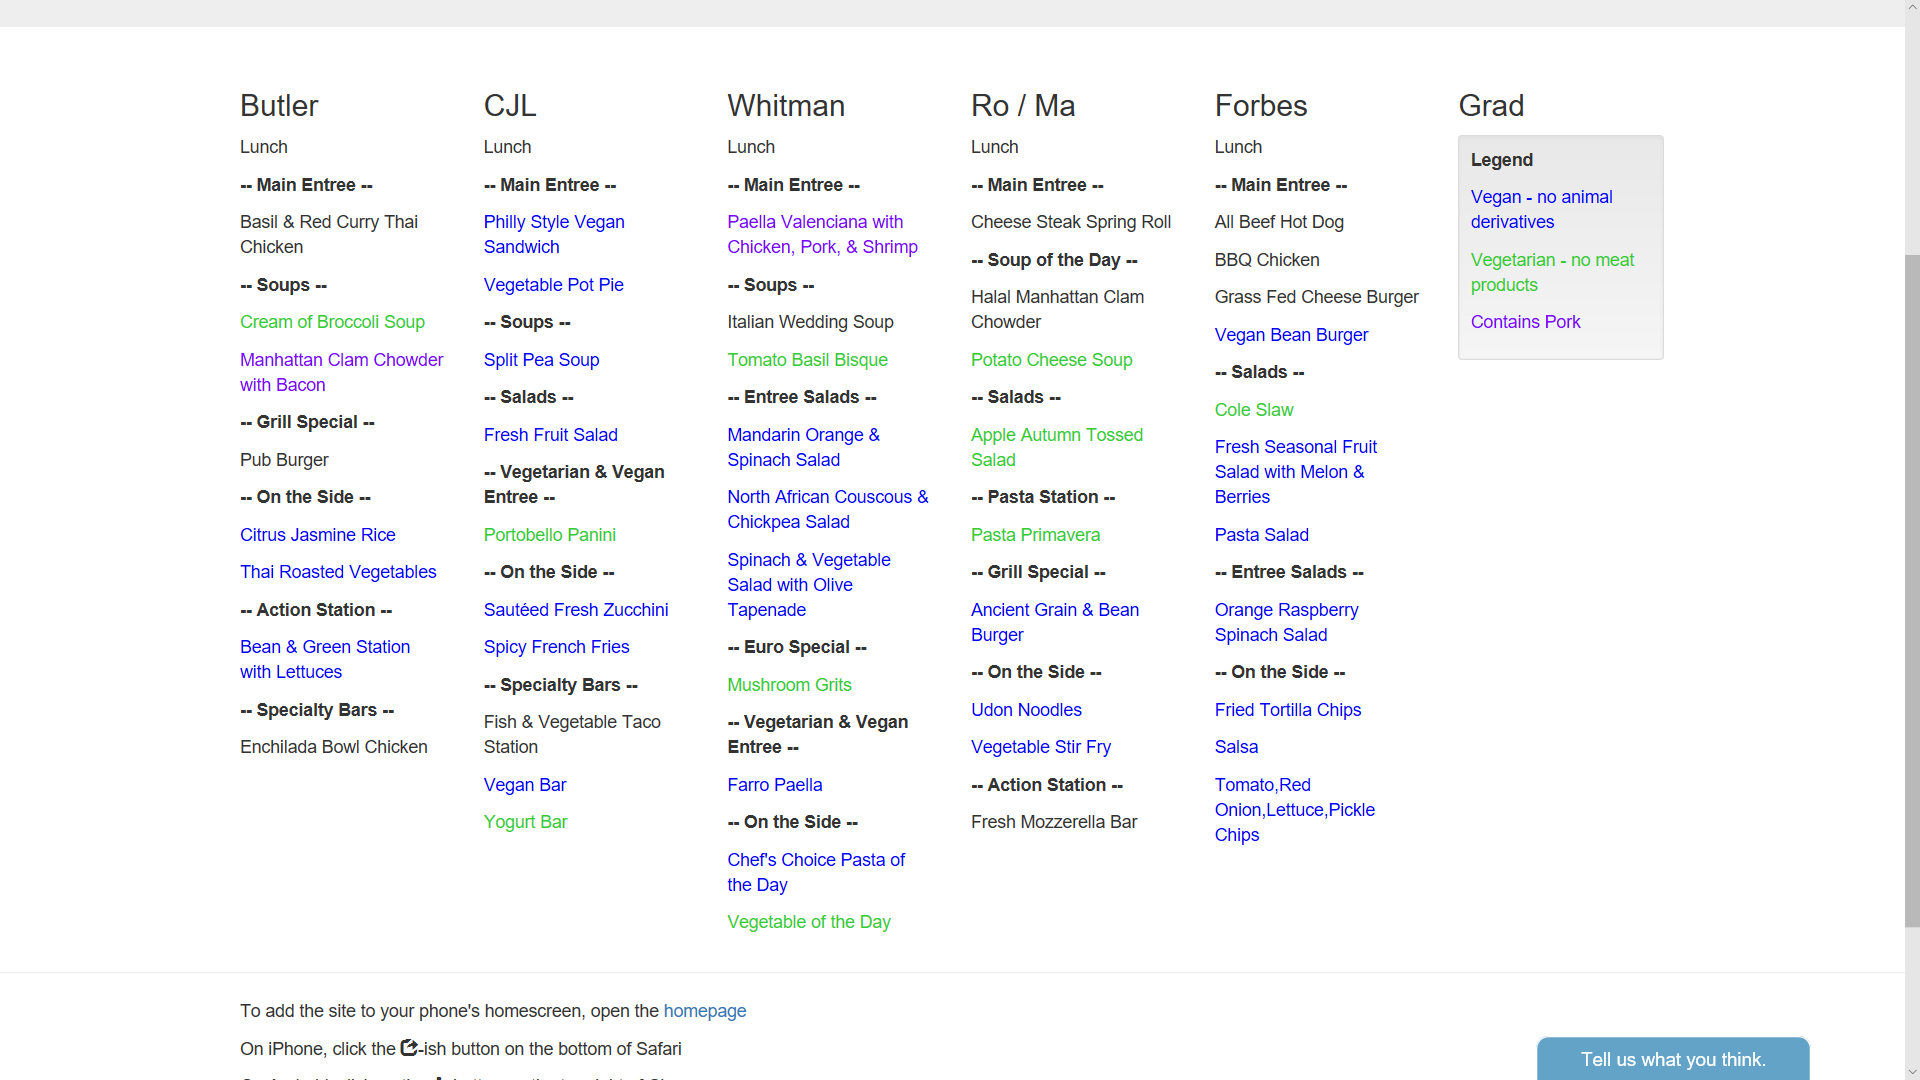
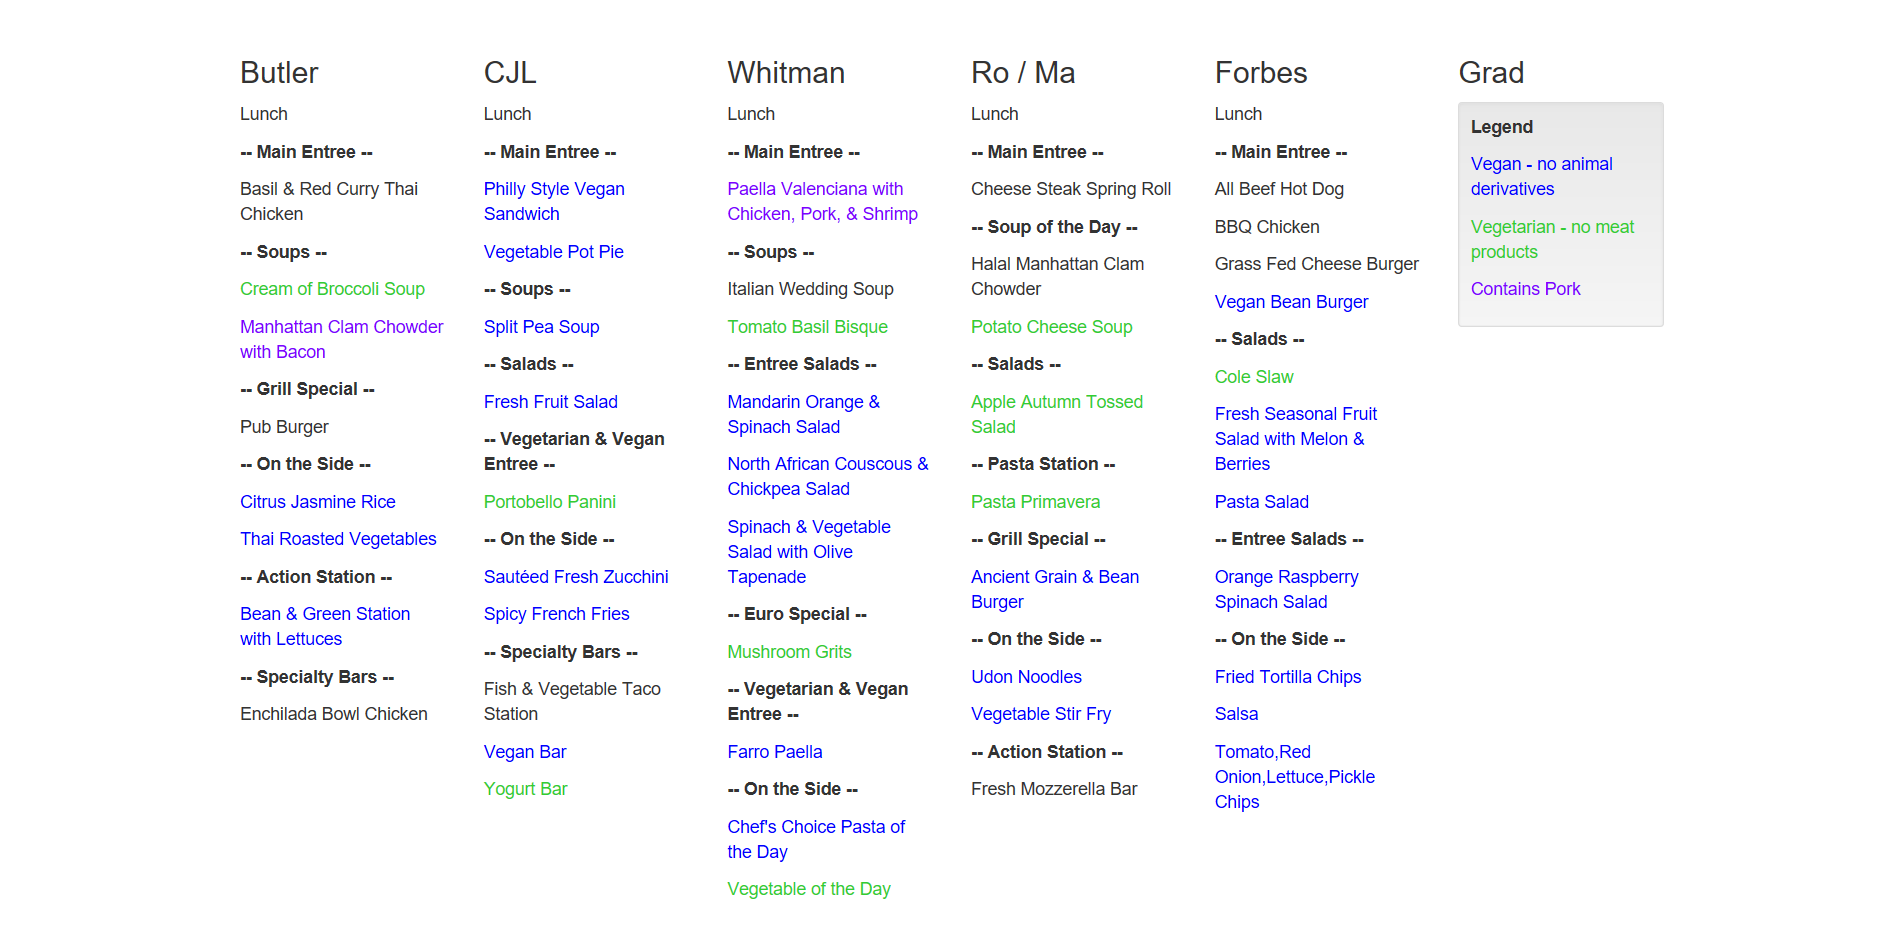
add mobile screenshot

diff --git a/app/templates/index.html b/app/templates/index.html
@@ -3,6 +3,13 @@
 
 <div class="container">
 	<figure class="figure">
+		<div align="center"><img src="/static/screenshot2.png" class="img-responsive" alt="Google Analytics"></div>
+		<figcaption class="figure-caption text-center">How the site looks during the school year</figcaption>
+	</figure>
+</div>
+<hr>
+<div class="container">
+	<figure class="figure">
 		<div align="center"><img src="/static/analytics.png" class="img-responsive" alt="Google Analytics"></div>
 		<figcaption class="figure-caption text-center">Lifetime Google Analytics as of 5/27/2017 (end of Spring 2017 semester)</figcaption>
 	</figure>
@@ -10,8 +17,8 @@
 <hr>
 <div class="container">
 	<figure class="figure">
-		<div align="center"><img src="/static/meme.png" class="img-responsive" alt="meme"></div>
-		<figcaption class="figure-caption text-center">Official Meme</figcaption>
+		<div align="center"><img src="/static/android.png" class="img-responsive" alt="meme"></div>
+		<figcaption class="figure-caption text-center">How it looks on mobile</figcaption>
 	</figure>
 </div>
 <hr>
